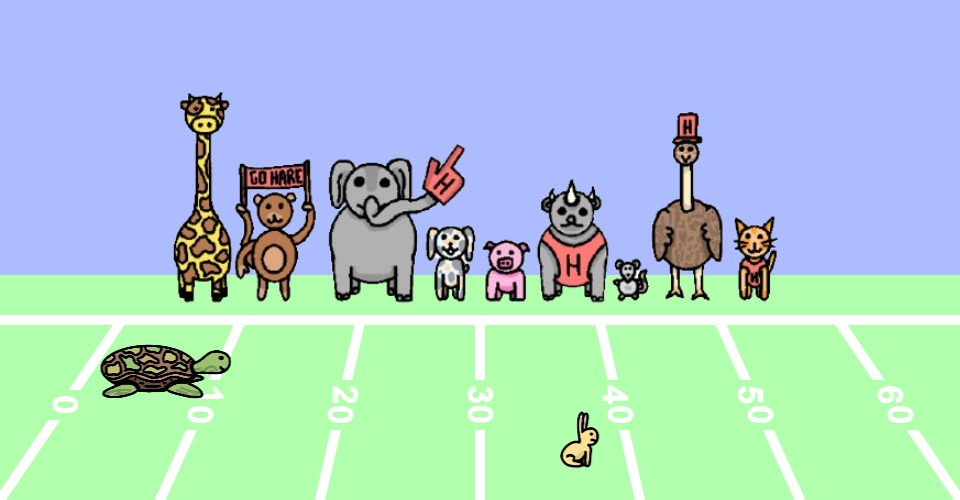
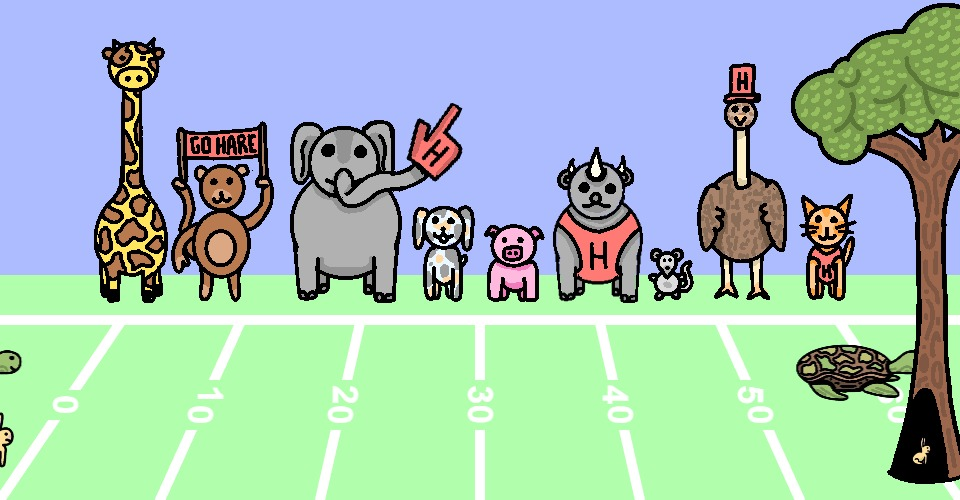
tree and entry

diff --git a/clock.js b/clock.js
@@ -3,8 +3,10 @@
  */
 let crowdShake = 0
 let rabbitSize = 1
-let halfStep = 10
-let levelRabbit = 410
+let levelRabbit = 410 
+let scaleCheck = 55
+let rabbitHole = 890
+let minuteCheck = 51
 
 function draw_clock(obj) {
   // draw your own clock here based on the values of obj:
@@ -94,21 +96,12 @@ function draw_clock(obj) {
   console.log(obj.seconds_until_alarm);
   
   if(obj.seconds_until_alarm < 0 || obj.seconds_until_alarm === undefined) {
-      push()
-      scale(1.1)
-      image(imgSpectators, 90, 80)
-      pop()
+      image(imgSpectators, 0, 25)
   } else if(obj.seconds_until_alarm > 0) {
     if(crowdShake == 0){
-      push()
-      scale(1.1)
-      image(imgSpectators, 90, 80)
-      pop()
+      image(imgSpectators, 0, 25)
     } else {
-      push()
-      scale(1.1)
-      image(imgSpectators, 90, 85)
-      pop()
+      image(imgSpectators, 0, 30)
     }
     crowdShake = crowdShake + 1
     
@@ -119,44 +112,81 @@ function draw_clock(obj) {
 
   rabbitMove = map(obj.seconds, 0, 59, 0, 960)//seconds moving rabbit
 
-  turtleMove = map(obj.minutes, 0, 59, 0, 960)//minutes moving turtle
+  turtleMove = map(obj.minutes, 0, 59, 0, 905)//minutes moving turtle
 
+  if(obj.seconds < 20){ //turtle animation
+    image(imgTurtleBack, turtleMove - 35, 340)
+  } else if(obj.seconds > 40){
+    image(imgTurtleForward, turtleMove - 35, 340)
+  } else {
+    image(imgTurtleMid, turtleMove - 35, 340)
+  }
 
-  push()
+  if(obj.minutes > 50) {
+    if(obj.seconds < 20){ //turtle animation
+      image(imgTurtleBack, turtleMove - 940, 340)
+    } else if(obj.seconds > 40){
+      image(imgTurtleForward, turtleMove - 940, 340)
+    } else {
+      image(imgTurtleMid, turtleMove - 940, 340)
+    }
+  }
 
-  if(obj.seconds > 54 && obj.millis > 750) { 
-    rabbitSize = rabbitSize * 0.99
-    levelRabbit = levelRabbit / 0.999
-  } else if(obj.seconds < 55){
-    rabbitSize = 1
-    halfStep = 10
-    levelRabbit = 410
+  if(obj.minutes < 9) {
+    if(obj.seconds < 20){ //turtle animation
+      image(imgTurtleBack, turtleMove + 870, 340)
+    } else if(obj.seconds > 40){
+      image(imgTurtleForward, turtleMove + 870, 340)
+    } else {
+      image(imgTurtleMid, turtleMove + 870, 340)
+    }
+  }
+
+  image(imgTree, 5, 0)
+
+  if(obj.seconds == scaleCheck) { 
+    rabbitSize = rabbitSize * 0.8
+    levelRabbit = levelRabbit / 0.98
+    scaleCheck = scaleCheck + 1
+    rabbitHole = rabbitHole + 6
   } 
   
-  if(obj.seconds > 54){
-    halfStep = 0
-    rabbitMove = 900
+  if(obj.seconds == 0) {
+    rabbitSize = 1
+    scaleCheck = 55
+    levelRabbit = 410
+    rabbitHole = 890
   }
+
+  if(obj.seconds > 54){
+    rabbitMove = rabbitHole
+  }
+
+  push()
 
   translate(rabbitMove, levelRabbit)
   scale(rabbitSize)
 
   if(obj.millis > 750) { //rabbit animation
-    image(imgHareJump, halfStep, 0)
+    image(imgHareJump, 10, 0)
   } else {
     image(imgHare, 0, 0)
   }
-  
+
   pop()
 
-  if(obj.seconds < 20){ //turtle animation
-    image(imgTurtleBack, turtleMove, 340)
-  } else if(obj.seconds > 40){
-    image(imgTurtleForward, turtleMove, 340)
-  } else {
-    image(imgTurtleMid, turtleMove, 340)
-  }
+  push()
 
+  translate(rabbitMove + 10, 410)
+
+  if(obj.seconds > 54){
+    if(obj.millis > 750) { //rabbit animation
+      image(imgHareJump, -940, 0)
+    } else {
+      image(imgHare, -950, 0)
+    }  
+  } 
+  pop()
 
   // fill(200); // dark grey
   // textSize(40);

diff --git a/runner.js b/runner.js
@@ -35,6 +35,7 @@ function setup () {
   imgTurtleForward = loadImage('assets/turtleforward.png');
   imgTurtleMid = loadImage('assets/turtlemid.png');
   imgSpectators = loadImage('assets/spectators.png');
+  imgTree = loadImage('assets/tree.png')
 
   // this is true if debug.js is included
   if(debug_is_on) {

diff --git a/README.md b/README.md
@@ -10,3 +10,5 @@ Update this file as you go along to record your progress.
 My idea is to create a clock based off the story of 'The Tortoise and the Hare'. It will involve the two animals racing across a track field, with hares hopping in time with the seconds, and tortoises moving in time with the minutes. The hares will disappear into a 'nap zone' at the end of the minute. The sky will change colour with the passing hours. My alarm will zoom in on a spectator yelling at the hare to wake up.
 
 Currently I have loaded in the animals and spectators, and designed the field lines using JS. The animals move in time with small animations but need to be adjusted to fit the field lines. As opposed to a zoom for the alarm, I will have all the spectators yell at the hare with a giant speech bubble. Currently they shake in anticipation when the alarm is set. 
+
+Made hare shrink in increments to 'enter' a tree burrow. Also added smooth entrance and exits of the animals to ensure they cross the start and finish lines in time with seconds/minutes.
